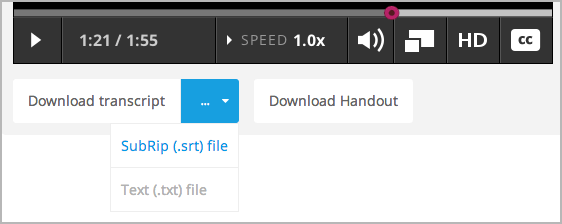
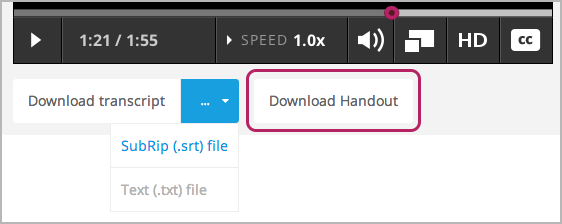
Update video documentation following UI text updates

Changed region(s): [[0.4235, 0.2812, 0.7562, 0.5938]]

diff --git a/docs/en_us/course_authors/source/creating_content/create_video.rst b/docs/en_us/course_authors/source/creating_content/create_video.rst
@@ -113,12 +113,9 @@ company that provides captioning services. EdX works with `3Play Media
 <http://www.3playmedia.com>`_. `YouTube <http://www.youtube.com/>`_ also
 provides captioning services.
 
-In addition to your .srt file, you can provide other transcripts with your
-video. For example, you can provide downloadable transcripts in a text format
-such as .pdf, and you can provide transcripts in different languages.
-For more information, see :ref:`Additional Transcripts`.
+When you upload an .srt file, a .txt file is created automatically. You can allow students to download either the .srt file or the .txt file. You can also provide transcripts in different formats, such as .pdf, and you can provide transcripts in different languages.For more information, see :ref:`Additional Transcripts`.
 
-If you allow your students to downoad transcripts, a **Download transcript**
+If you allow your students to download transcripts, a **Download transcript**
 button appears under the video. Students can then select either **SubRip (.srt)
 file** or **Text (.txt) file** to download the .srt or .txt transcript.
 
@@ -210,8 +207,7 @@ Step 4. Create a Video Component
      using a video from an existing course--Studio automatically finds the
      transcript and associates the transcript with the video.
      
-     If you want to modify the transcript, click **Download Transcript for Editing**. You can
-     then make your changes and upload the new file by clicking **Upload New Transcript**.
+     If you want to modify the transcript, click **Download Transcript for Editing**. You can then make your changes and upload the new file by clicking **Upload New Transcript**.
 
    - If edX doesn't have a transcript for the video, but YouTube has a transcript, Studio automatically finds the YouTube
      transcript and asks if you want to import it. To use this YouTube
@@ -219,7 +215,7 @@ Step 4. Create a Video Component
      YouTube transcript, after Studio imports the transcript, click **Download Transcript for Editing**. You can then make your changes and upload the new file by
      clicking **Upload New Transcript**.)
 
-   - If both edX and YouTube have a transcript for your video, but the edX transcript is out of date, you'll receive a message asking if you want to replace the edX transcript with the YouTube transcript. Click **Yes, replace the edX transcript with the YouTube transcript** to use the YouTube transcript.
+   - If both edX and YouTube have a transcript for your video, but the edX transcript is out of date, you'll receive a message asking if you want to replace the edX transcript with the YouTube transcript. To use the YouTube transcript, click **Yes, replace the edX transcript with the YouTube transcript**.
 
    - If neither edX nor YouTube has a transcript for your video, and your
      transcript uses the .srt format, click **Upload New Transcript** to
@@ -258,12 +254,12 @@ The following options appear on the **Advanced** tab in the Video component.
     * - **Download Transcript Allowed**
       - Specifies whether you want to allow students to download the timed transcript. If you set this value to **True**, a link to download the file appears below the video. 
 
-        By default, students can download .srt or .txt versions of the transcript. If you want to provide the transcript for download in a different format as well, such as .pdf, upload a file to Studio by using the **Upload Handout** field. 
+        By default, Studio creates a .txt transcript when you upload an .srt transcript. Students can download the .srt or .txt versions of the transcript when you set **Download Transcript Allowed** to **True**. If you want to provide the transcript for download in a different format as well, such as .pdf, upload a file to Studio by using the **Upload Handout** field. 
 
     * - **Downloadable Transcript URL**
       - The URL for a non-.srt version of the transcript file posted on the **Files & Uploads** page or on the Internet. Students see a link to download the non-.srt transcript below the video. 
 
-        .. note:: When you add a transcript to this field, only the transcript that you add is available for download. The .srt and .txt transcripts become unavailable. If you want to provide a downloadable transcript in a format other than .srt, we recommend that you upload a handout for students by using the **Upload a Handout** field. 
+        .. note:: When you add a transcript to this field, only the transcript that you add is available for download. The .srt and .txt transcripts become unavailable. If you want to provide a downloadable transcript in a format other than .srt, we recommend that you upload a handout for students by using the **Upload Handout** field. 
 
     * - **Show Transcript**
       - Specifies whether the transcript plays along with the video by default.
@@ -288,23 +284,35 @@ The following options appear on the **Advanced** tab in the Video component.
 Additional Transcripts
 **********************
 
-By default, students can download an .srt or .txt transcript when you set **Download Transcript Allowed** to **True**. The **Download Transcript** button appears below the video, and students see the .srt and .txt options when they hover over the button.
+By default, a .txt file is created when you upload an .srt file, and students can download an .srt or .txt transcript when you set **Download Transcript Allowed** to **True**. The **Download Transcript** button appears below the video, and students see the .srt and .txt options when they hover over the button.
 
 .. image:: /Images/Video_DownTrans_srt-txt.png
    :width: 500
    :alt: Video status bar showing srt and txt transcript download options
 
-If you want to provide a downloadable transcript in a different format, we recommend that you upload a handout by using the **Upload a Handout** field. When you do this, a **Download Handout** button appears next to the **Download Transcript** button, and students can download the .srt, .txt, or handout version of the transcript.
+If you want to provide a downloadable transcript in a format such as .pdf along with the .srt and .txt transcripts, we recommend that you use the **Upload Handout** field. When you do this, a **Download Handout** button appears to the right of the **Download Transcript** button, and students can download the .srt, .txt, or handout version of the transcript.
 
 .. image:: /Images/Video_DownTrans_srt-handout.png
    :width: 500
    :alt: Video status bar showing srt, txt, and handout transcript download options
 
-If you can't provide the transcript as a handout, you can post a transcript file on the **Files & Uploads** page or on the Internet, and then add the URL for the transcript to the Video component in the **Downloadable Transcript URL** field. Students see a link to download that transcript below the video. However, **we don't recommend that you use this method**. When you use this method, only the transcript that you add is available for download. The .srt and .txt transcripts become unavailable. 
+To use the **Upload Handout** field:
+
+#. Create or obtain your transcript as a .pdf or in another format.
+#. In the Video component, click the **Advanced** tab in the Video component.
+#. Locate **Upload Handout**, and then click **Upload**.
+#. In the **Upload File** dialog box, click **Choose File**.
+#. In the dialog box, select the file on your computer, and then click **Open**.
+#. In the **Upload File** dialog box, click **Upload**.
+
+
+Before Studio added the **Upload Handout** feature, some courses posted transcript files on the **Files & Uploads** page or on the Internet, and then added a link to those files in the Video component. **We no longer recommend this method.**  When you use this method, the **Download Transcript** button appears, but only the transcript that you add is available for download. The .srt and .txt transcripts become unavailable. 
 
 .. image:: /Images/Video_DownTrans_other.png
    :width: 500
    :alt: Video status bar showing Download Transcript button without srt and txt options
+
+If you want to use this method, you can post your transcript online, and then add the URL to the transcript in the **Downloadable Transcript URL** field. However, bear in mind that students will not be able to download .srt or .txt transcripts.
 
 .. _Transcripts in Additional Languages:
 
